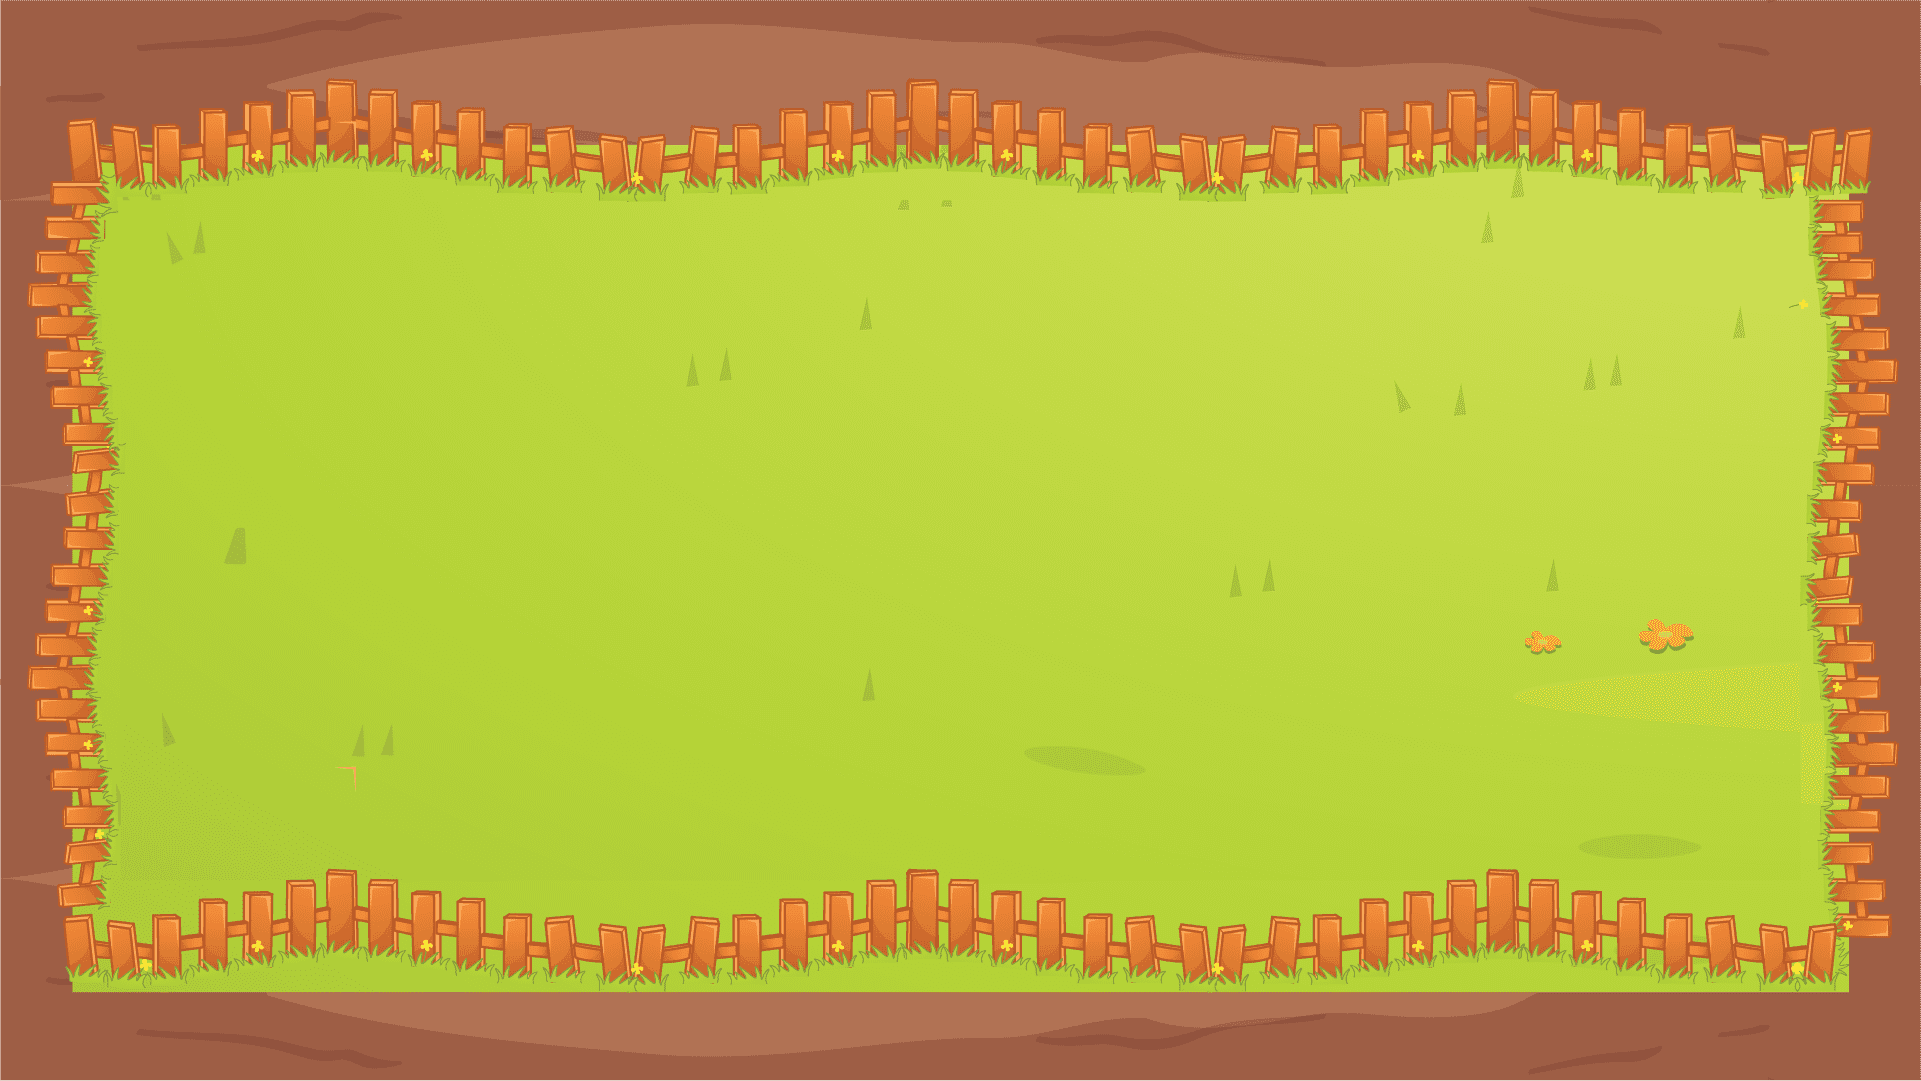
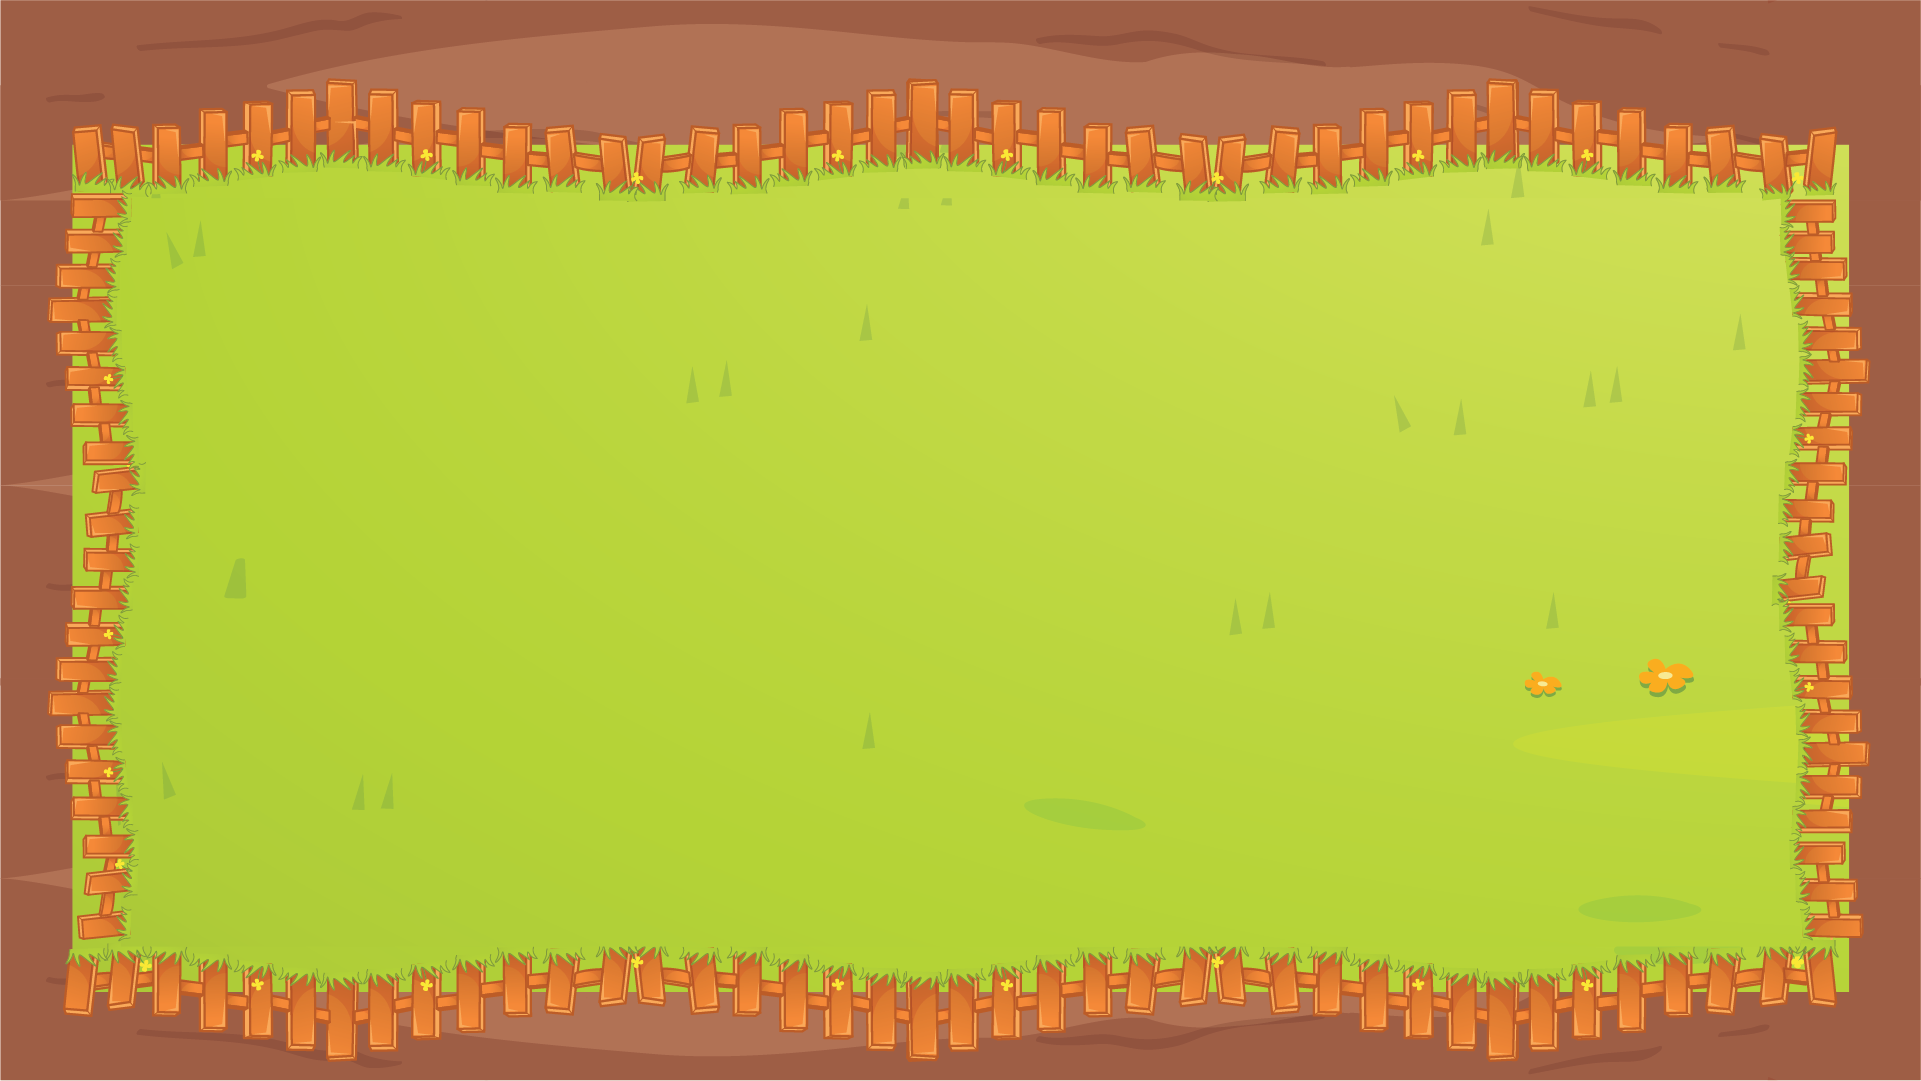
changed vectorial skins, now they work fine

diff --git a/src/main/java/it/unibo/smol/view/impl/graphiccomponent/PlayerGraphicComponent.java b/src/main/java/it/unibo/smol/view/impl/graphiccomponent/PlayerGraphicComponent.java
@@ -8,8 +8,8 @@ import it.unibo.smol.view.api.GraphicComponent;
  */
 public class PlayerGraphicComponent extends GraphicComponent {
 
-    /*private boolean moving;
-    private boolean attacking;*/
+    private boolean moving_left;
+    private boolean moving_right;
 
     /**
      * Constructors inherited by the super-class {@link GraphicComponent}.
@@ -18,6 +18,8 @@ public class PlayerGraphicComponent extends GraphicComponent {
      */
     public PlayerGraphicComponent(final double width, final double height) {
         super(width, height);
+        this.moving_left = false;
+        this.moving_right = false;
     }
 
     /**
@@ -25,14 +27,14 @@ public class PlayerGraphicComponent extends GraphicComponent {
      */
     @Override
     public void setAnimation() {
-        setImageName(LoadImgs.PLAYER);
-        /*if (moving) {
-            setImageName(LoadImgs.PLAYER);
-        } else if (attacking) {
-            setImageName(LoadImgs.PLAYER);
+        //setImageName(LoadImgs.PLAYER);
+        if (this.moving_left) {
+            setImageName(LoadImgs.PLAYER_LEFT);
+        } else if (this.moving_right) {
+            setImageName(LoadImgs.PLAYER_RIGHT);
         } else {
             setImageName(LoadImgs.PLAYER);
-        }*/
+        }
     }
 
     /**
@@ -40,18 +42,15 @@ public class PlayerGraphicComponent extends GraphicComponent {
      */
     @Override
     public void updateAnimation() {
-        /*if (super.getEntity().isPresent()) {
-                if (super.getEntity().orElseThrow().getPhysicsComp().orElseThrow().getX() == 0 
-                    && super.getEntity().orElseThrow().getPhysicsComp().orElseThrow().getY() == 0) {
-                    moving = false;
-                } else {
-                    moving = true;
-                }
-                /*if() {
-                    attacking = true;
-                } else {
-                    attacking = false;
-                }*/
-        //}
+        if (super.getEntity().isPresent()) {
+            if (super.getEntity().orElseThrow().getPhysicsComp().orElseThrow().getX() > 0) {
+                this.moving_right = true;
+            } else if (super.getEntity().orElseThrow().getPhysicsComp().orElseThrow().getX() < 0) {
+                this.moving_left = true;
+            } else {
+                this.moving_left = false;
+                this.moving_right = false;
+            }
+        }
     }
 }

diff --git a/src/main/java/it/unibo/smol/view/impl/GraphicsDraw.java b/src/main/java/it/unibo/smol/view/impl/GraphicsDraw.java
@@ -45,6 +45,8 @@ public class GraphicsDraw {
         images.put(LoadImgs.W_TARGET, LoadImgs.getSprites(LoadImgs.W_TARGET, folderName));
         images.put(LoadImgs.GROUND, LoadImgs.getSprites(LoadImgs.GROUND, folderName));
         images.put(LoadImgs.LIFE_PLANTS, LoadImgs.getSprites(LoadImgs.LIFE_PLANTS, folderName));
+        images.put(LoadImgs.PLAYER_LEFT, LoadImgs.getSprites(LoadImgs.PLAYER_LEFT, folderName));
+        images.put(LoadImgs.PLAYER_RIGHT, LoadImgs.getSprites(LoadImgs.PLAYER_RIGHT, folderName));
     }
 
     /**

diff --git a/src/main/java/it/unibo/smol/view/LoadImgs.java b/src/main/java/it/unibo/smol/view/LoadImgs.java
@@ -22,6 +22,10 @@ public final class LoadImgs {
     public static final String MOLE = "mole1.gif";
     /**player gif. */
     public static final String PLAYER = "player.gif";
+    /**player moving right gif. */
+    public static final String PLAYER_RIGHT = "player_right.gif";
+    /**player moving left gif. */
+    public static final String PLAYER_LEFT = "player_left.gif";
     /**Helmet mole gif. */
     public static final String HELM_MOLE = "Helmet_mole.gif";
     /**Bomb mole gif. */
